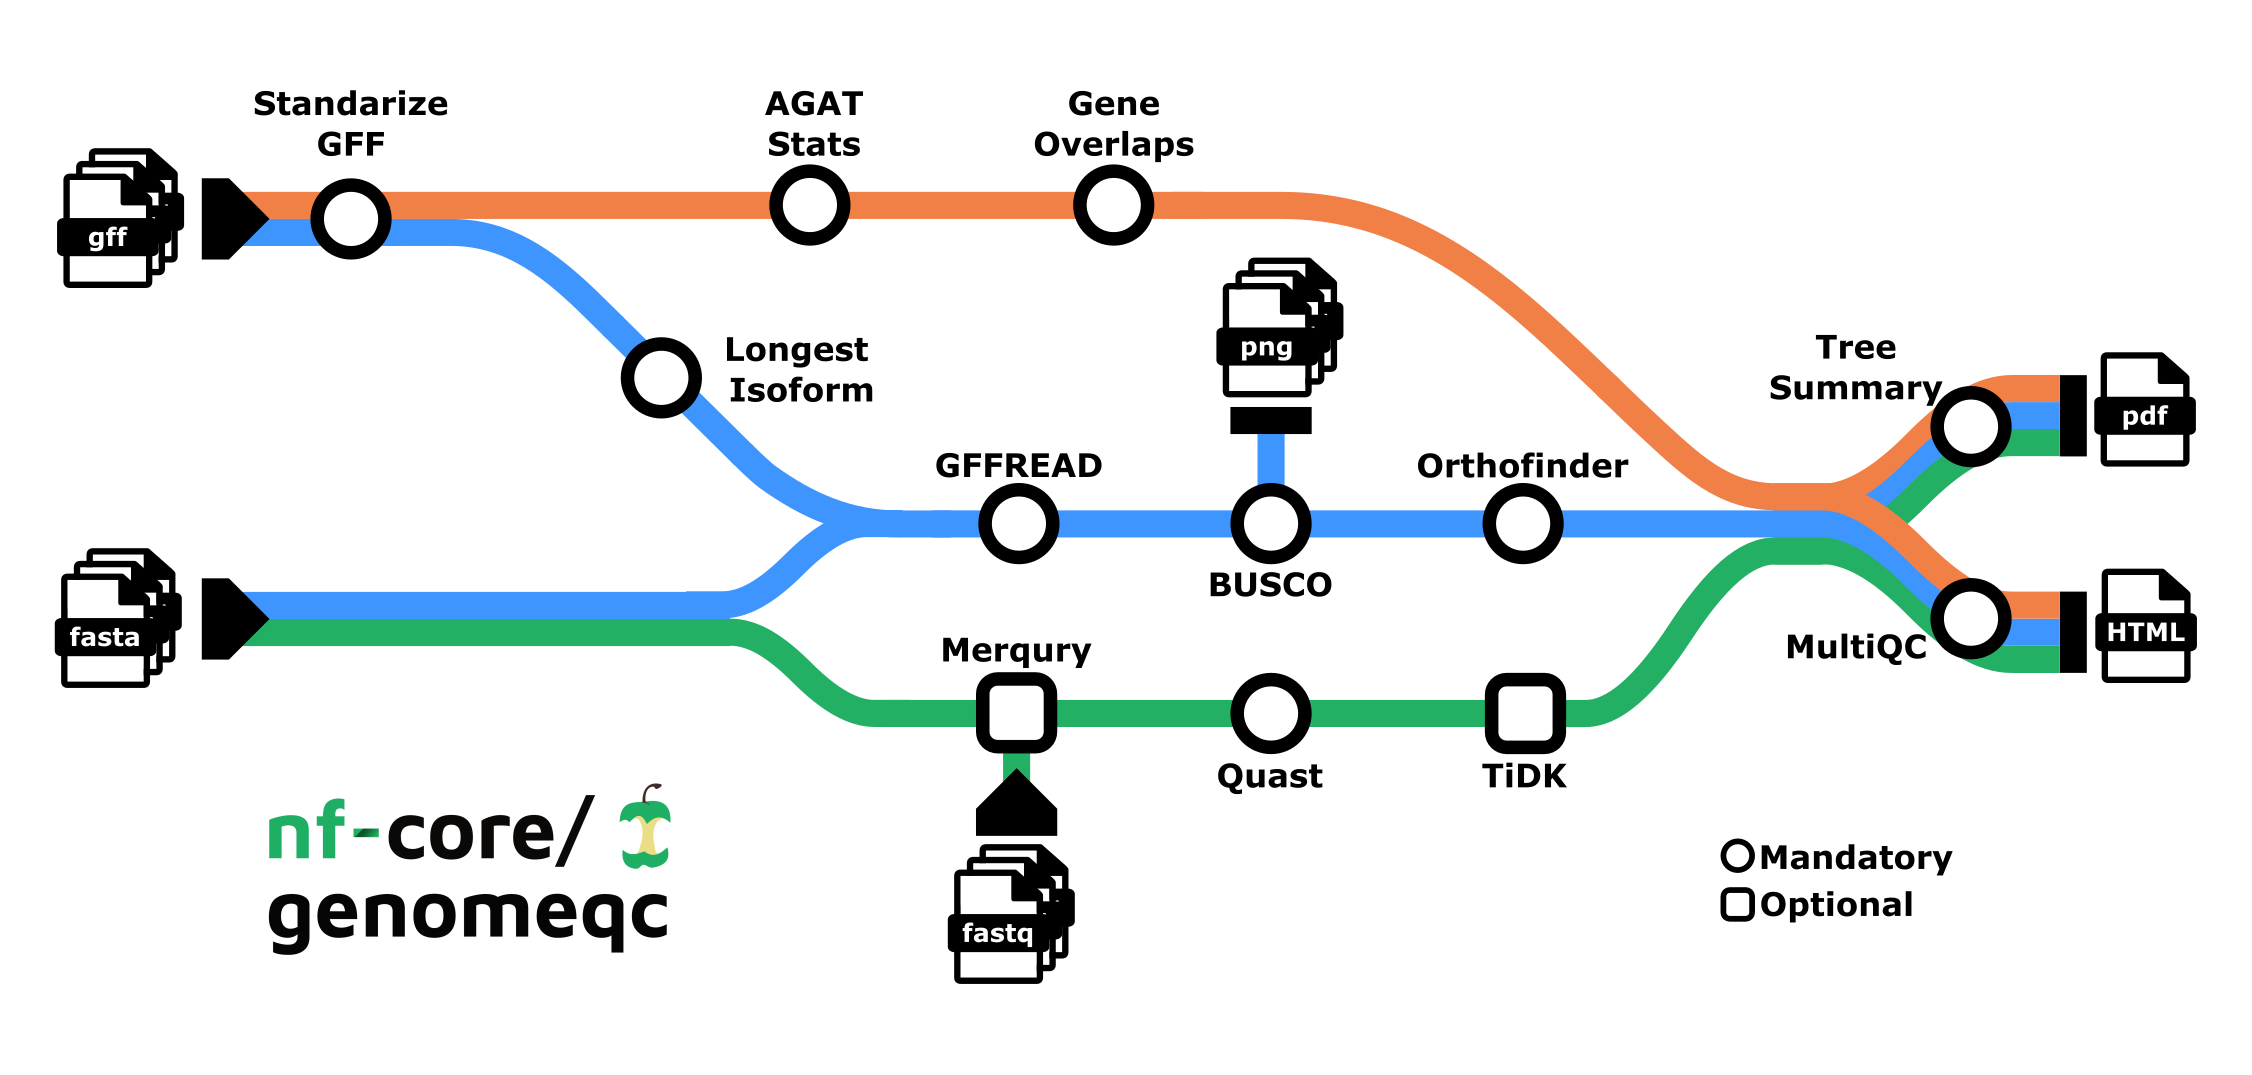
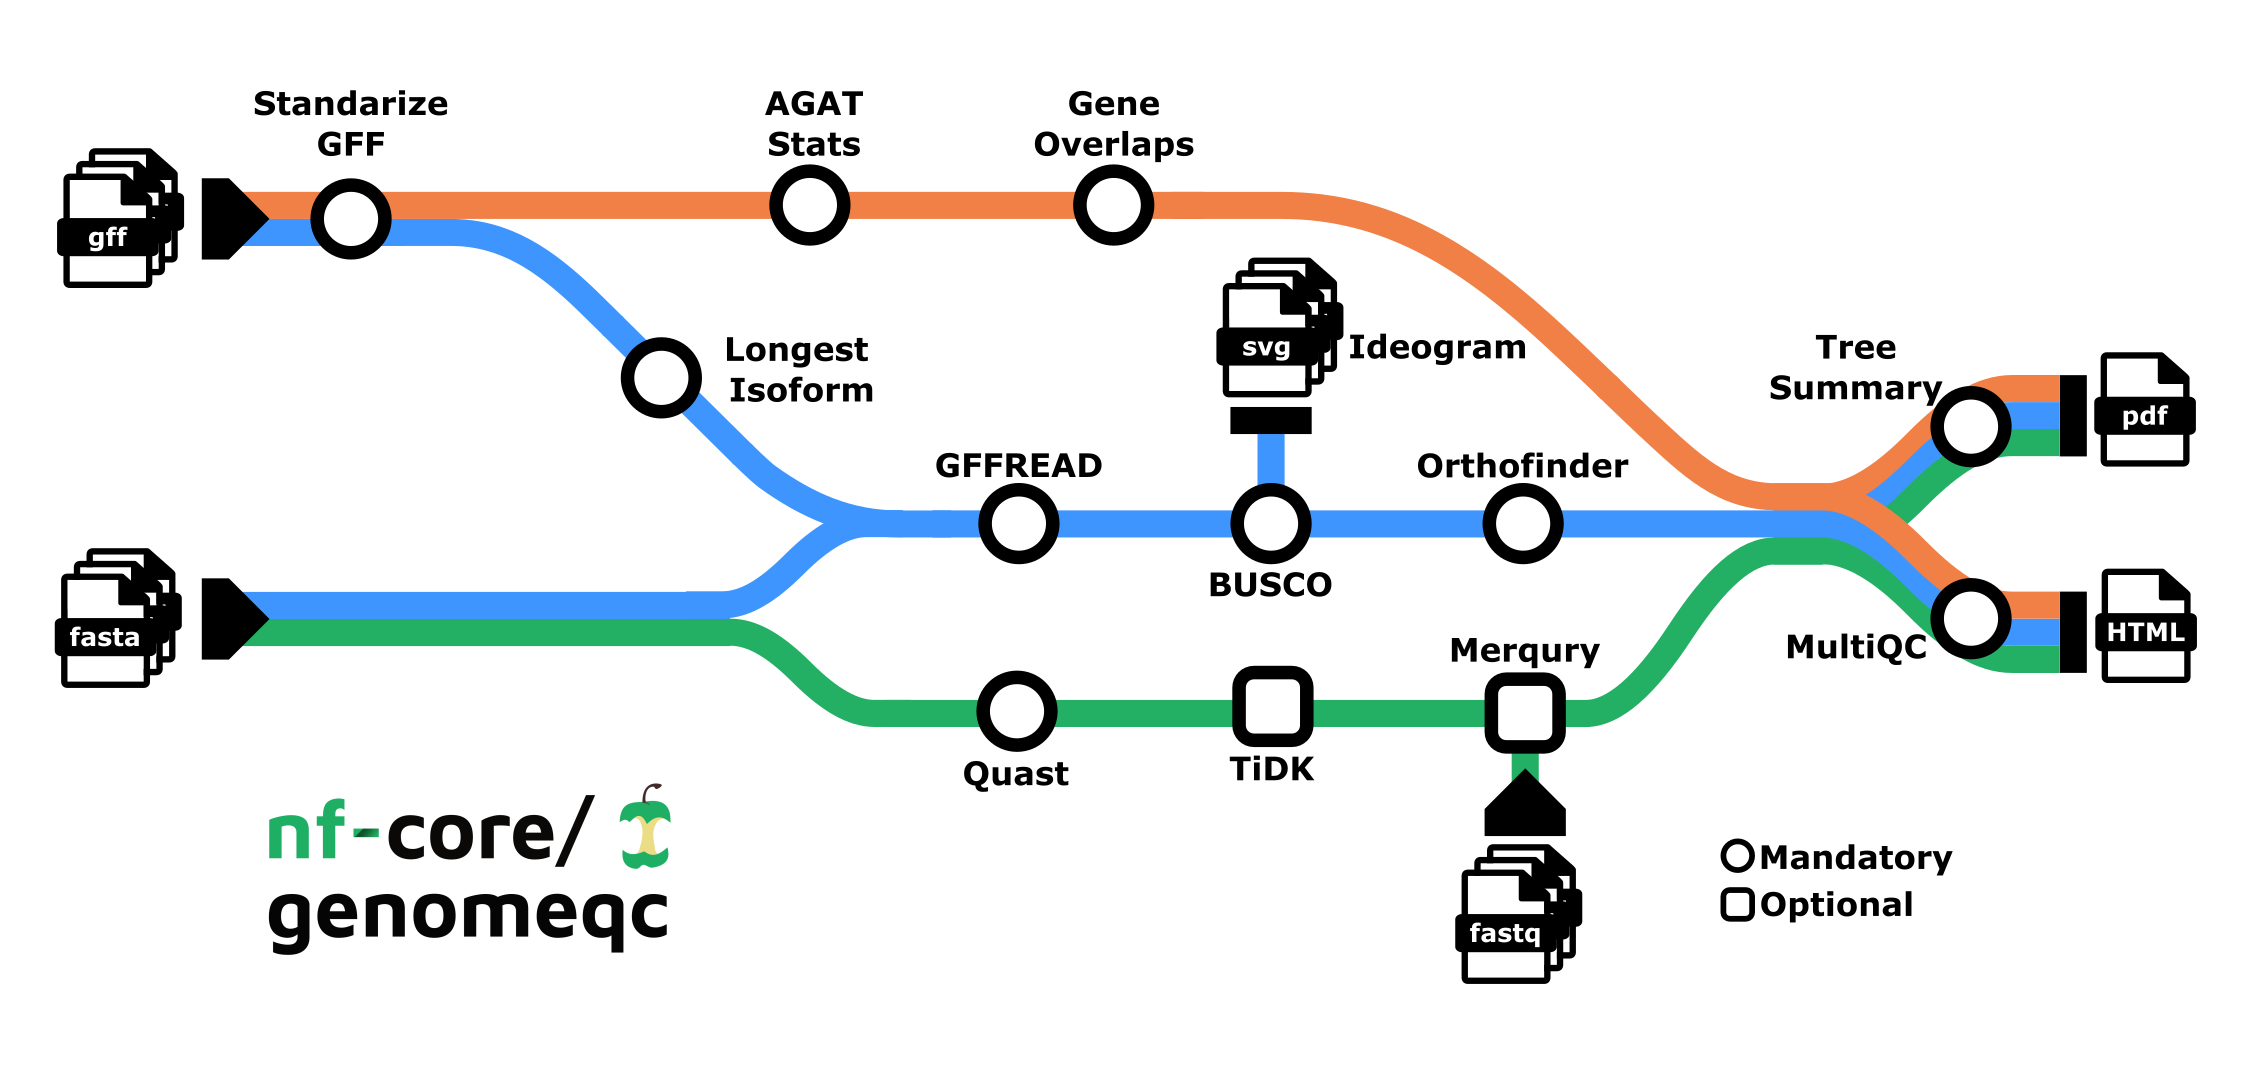
Updated README.md and config files

diff --git a/README.md b/README.md
@@ -36,38 +36,35 @@ For an example, see https://github.com/nf-core/rnaseq/blob/master/README.md#intr
 **1. Genome and Annotation:**
 1. Downloads the genome and gene annotation files from NCBI `[NCBIGENOMEDOWNLOAD]` - Or you provide your own genomes/annotations
 2. Describes genome assembly:
-   1. `[BUSCO_BUSCO]`: Determines how complete is the genome compared to expected number of single copy markers (protein mode).
+   1. `[BUSCO_BUSCO]`: Evaluates genome completness based on **single copy markers**.
    2. `[BUSCO_IDEOGRAM]`: Plots the location of markers on the assembly.
-   3. `[QUAST]`: Computes contiguity and integrity statistics: N50, N90, GC%, number of sequences.
-   4. More options...
-3. Describes annotation : `[AGAT]`: Gene, feature, length, averages, counts.
+   3. `[MERQURY]` (optional): Evaluates genome completness based on sequencing reads.
+   4. `[TIDK]` (optional): Indetifies and visualises telomeric repeats.
+   5. `[QUAST]`: Computes contiguity and integrity statistics: N50, N90, GC%, number of sequences.
+   6. More options...
+3. Describes annotation : `[AGAT]`: Gene, feature, length, counts.
 4. Finds the number of overlapping genes `[GENE_OVERLAPS]`.
 5. Extracts longest protein isoform `[GFFREAD]`.
 6. Finds orthologous genes `[ORTHOFINDER]`.
 7. Plots an orthology-based phylogenetic tree `[TREE_SUMMARY]`, as well as other relevant stats from the above steps.
-8. Summary with MulitQC `[MULTIQC]`.
+8. Summary with `[MULTIQC]`.
 
 **2. Genome Only (in development):**
 1. Downloads the genome files from NCBI `[NCBIGENOMEDOWNLOAD]` - Or you provide your own genomes
 2. Describes genome assembly:
-   1. `[BUSCO_BUSCO]`: Determines how complete is the genome compared to expected number of single copy markers (protein mode).
+   1. `[BUSCO_BUSCO]`: Evaluates genome completness based on **single copy markers**.
    2. `[BUSCO_IDEOGRAM]`: Plots the location of markers on the assembly.
-   3. `[QUAST]`: Computes contiguity and integrity stats: N50, N90, GC%, number of sequences.
-3. Summary with MulitQC `[MULTIQC]`.
+   3. `[TIDK]` (optional): Indetfies and visualises telomeric repeats.
+   3. `[QUAST]`: Computes contiguity and integrity statistics: N50, N90, GC%, number of sequences.
+3. Summary with `[MULTIQC]`.
 
 **3. Annnotation Only (in development):**
 1. Downloads the gene annotation files from NCBI `[NCBIGENOMEDOWNLOAD]` - Or you provide your own annotations.
 2. Describes your annotation : `[AGAT]`: Gene, feature, length, averages, counts.
 3. Summary with MulitQC.
 
-**Run with Merqury**
-
-Optionally, users can also run the pipeline **Genome only** and **Genome and Annotation** pipelines with `[MERQURY]` by supplying sequencing reads in FASTQ format. [Merqury](https://github.com/marbl/merqury) is a tool for genome quality assessment that uses k-mer counts from raw sequencing data to evaluate the accuracy and completeness of a genome assembly.
-
-To run the pipeline with reads, you must supply a single FASTQ file for each genome in the samplesheet, alongside the `--run_merqury` flag. It is assumed that reads used to create the assembly are from long read technology such as PacBio or ONT, and are therefore single end. If reads are in a BAM file, they must be converted to FASTQ format first. If you have paired end reads, these must be interleaved first.
-
 > [!WARNING]
-> We strongly suggest users to specify the lineage using the `--busco_lineage` parameter, as setting the lineage to `auto` (value by default) might cause problems with `[BUSCO]` during the lineage determination step.
+> We strongly suggest users to specify the lineage using the `--busco_lineage` parameter, as setting the lineage to `auto` (default value) might cause problems with `[BUSCO]` during the lineage determination step.
 
 > [!NOTE]
 > `BUSCO_IDEOGRAM` will only plot those chromosomes -or scaffolds- that contain single copy markers.
@@ -94,7 +91,7 @@ When running on ``--genome_only`` mode, you can leave the `gff` field empty. Oth
 
 ### 2. Refseq IDs
 
-Additionally, you can run the pipeline using the Refseq IDs of the assemblies of interest using the `refseq` field, leaving the rest of the fields empty:
+Additionally, you can run the pipeline using the Refseq IDs of the assemblies of interest in the `refseq` field, leaving the rest of the fields empty:
 
 ```csv
 species,refseq,fasta,gff,fastq
@@ -104,7 +101,9 @@ Macaca_mulatta,GCF_003339765.1,,,
 
 ### Run the pipeline
 
+<!--
 You can mix the two input types **(in development)**.
+-->
 
 Run the pipeline using:
 
@@ -115,11 +114,11 @@ nextflow run nf-core/genomeqc \
    --outdir <OUTDIR>
 ```
 
-You can run the pipeline using test profiles or example input samplesheets:
+You can run the pipeline using a test dataset and parameters:
 
 ```bash
-nextflow run nf-core \
-   -profile docker,test \
+nextflow run nf-core/genomeqc \
+   -profile <docker/singularity/.../institute>,test \
    --outdir <OUTDIR>
 ```
 
@@ -127,7 +126,7 @@ nextflow run nf-core \
 
 ### Running with Merqury
 
-In order to run the pipeline with Mequry, users must provide the location of the FASTQ files in the `fastq` field:
+In order to run the pipeline with Mequry, users must provide at least the genome assemblies alongside the location of the FASTQ files in the `fastq` field:
 
 ```csv
 species,refseq,fasta,gff,fastq
@@ -138,11 +137,13 @@ Pan_paniscus,,/path/to/genome.fasta,/path/to/annotation.gff3,/path/to/reads.fq.g
 
 After supplying the reads, use the `--run_merqury` flag. Otherwise, this field will be ignored:
 
+```bash
 nextflow run nf-core/genomeqc \
    -profile <docker/singularity/.../institute> \
    --input samplesheet.csv \
    --outdir <OUTDIR>
-   `--run_merqury`
+   --run_merqury`
+```
 
 > [!WARNING]
 > Please provide pipeline parameters via the CLI or Nextflow `-params-file` option. Custom config files including those provided by the `-c` Nextflow option can be used to provide any configuration _**except for parameters**_;
@@ -150,7 +151,9 @@ nextflow run nf-core/genomeqc \
 
 ## Pipeline output
 
-<!-- TODO nf-core:  -->
+To see the results of an example test run with a full size dataset refer to the [results](https://nf-co.re/genomeqc/results) tab on the nf-core website pipeline page.
+For more details about the output files and reports, please refer to the
+[output documentation](https://nf-co.re/genomeqc/output).
 
 ## Credits
 
